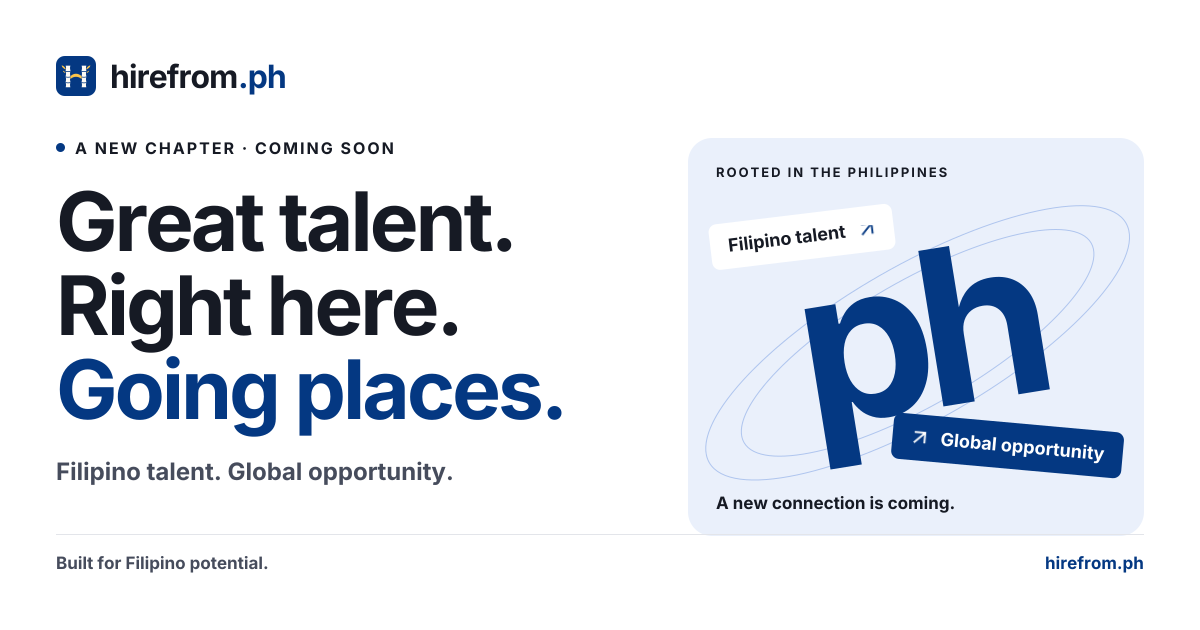
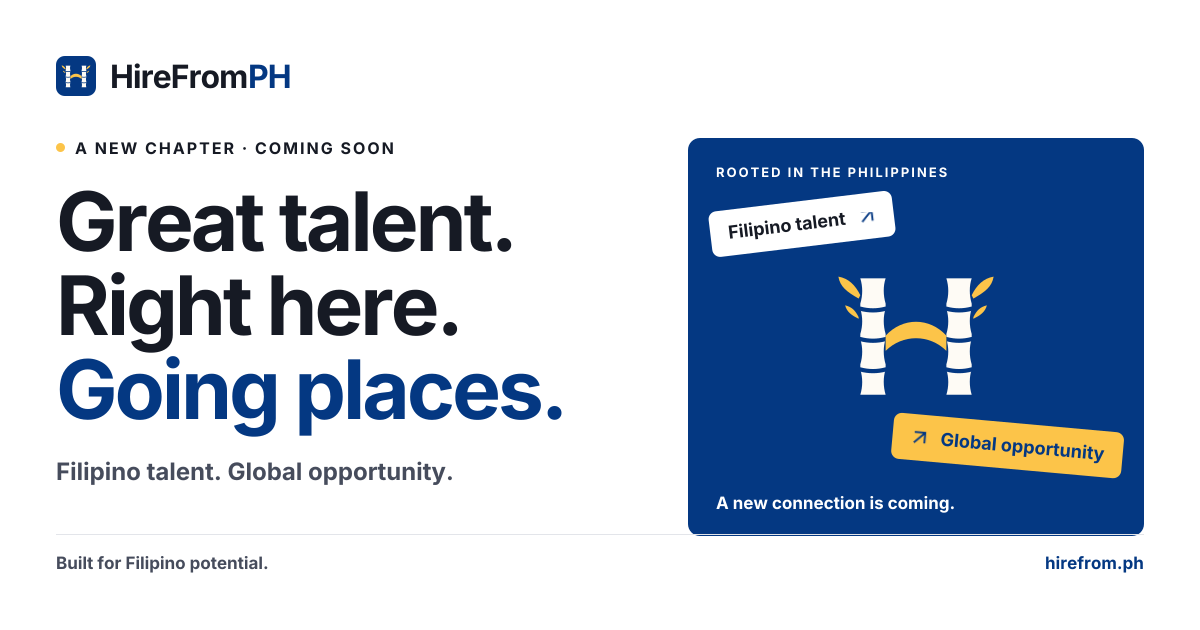
Complete coming-soon page navy and gold rebrand

Changed region(s): [[0.555, 0.2111, 0.9558, 0.8746], [0.0925, 0.0905, 0.2467, 0.1508]]

diff --git a/public/coming-soon/styles.css b/public/coming-soon/styles.css
@@ -11,6 +11,8 @@
   --ink: #161A24;
   --muted: #464C5C;
   --primary: #043882;
+  --gold: #FCC449;
+  --gold-tint: #FFF6DA;
   --tint: #EAF0FB;
   --line: #E3E5EA;
 }
@@ -22,15 +24,15 @@ a:focus-visible { outline: 3px solid var(--primary); outline-offset: 6px; }
 .skip-link:focus { top: 12px; }
 .page { max-width: 1440px; padding: 0 64px; margin: auto; }
 .header { min-height: 112px; display: flex; align-items: center; justify-content: space-between; gap: 24px; border-bottom: 1px solid var(--line); }
-.brand { display: inline-flex; align-items: center; gap: 12px; text-decoration: none; font: 800 29px Inter, Arial, sans-serif; letter-spacing: -1px; }
+.brand { display: inline-flex; align-items: center; gap: 12px; text-decoration: none; font: 700 29px Inter, Arial, sans-serif; letter-spacing: -1px; }
 .brand-domain { color: var(--primary); }
 .learn-link { display: flex; gap: 20px; align-items: center; font-size: 14px; font-weight: 700; text-decoration: none; }
 .learn-link span { font-size: 22px; color: var(--primary); }
 main:focus { outline: none; }
 .hero { display: grid; grid-template-columns: 1.15fr 1fr; gap: 72px; align-items: center; padding: 76px 0 72px; }
 .status { display: flex; align-items: center; gap: 10px; margin: 0 0 28px; font-size: 12px; font-weight: 700; letter-spacing: 1.1px; text-transform: uppercase; }
-.status > span { height: 8px; width: 8px; flex: 0 0 8px; border-radius: 50%; background: var(--primary); }
-h1 { margin: 0; font: 800 clamp(56px, 5.6vw, 82px)/1.02 Inter, Arial, sans-serif; letter-spacing: -2.8px; }
+.status > span { height: 8px; width: 8px; flex: 0 0 8px; border-radius: 50%; background: var(--gold); }
+h1 { margin: 0; font: 700 clamp(56px, 5.6vw, 82px)/1.02 Inter, Arial, sans-serif; letter-spacing: -2.8px; }
 h1 > span { color: var(--primary); }
 .description { max-width: 435px; margin: 28px 0 0; color: var(--muted); font-size: 17px; line-height: 1.7; }
 .invitation { margin: 25px 0 22px; font-size: 15px; line-height: 1.7; }
@@ -38,23 +40,20 @@ h1 > span { color: var(--primary); }
 .button:hover { background: #032A62; }
 .button span { font-size: 22px; line-height: 1; }
 .button-note { color: var(--muted); margin: 13px 0 0; font-size: 12px; }
-.connection { background: var(--tint); border-radius: 24px; overflow: hidden; align-self: stretch; display: flex; flex-direction: column; min-height: 520px; max-height: 620px; }
+.connection { background: var(--primary); color: var(--paper); border-radius: 12px; overflow: hidden; align-self: stretch; display: flex; flex-direction: column; min-height: 520px; max-height: 620px; }
 .connection-top { display: flex; align-items: center; justify-content: space-between; padding: 29px 30px; font-size: 10px; letter-spacing: 1.5px; font-weight: 700; }
-.connection-top > span:last-child { color: var(--primary); font-size: 24px; }
+.connection-top > span:last-child { color: var(--gold); font-size: 24px; }
+.connection-mark { width: min(64%, 280px); height: auto; display: block; }
 .connection-art { position: relative; flex: 1; display: grid; place-items: center; isolation: isolate; }
-.monogram { position: relative; color: var(--primary); font: 800 clamp(155px, 18vw, 248px)/1 Inter, Arial, sans-serif; letter-spacing: -18px; transform: rotate(-9deg); padding-right: 22px; }
-.spark { position: absolute; font: 65px Arial, sans-serif; right: -30px; top: 0; letter-spacing: 0; }
-.orbit { position: absolute; width: 120%; height: 45%; border: 1px solid #AFC5EE; border-radius: 50%; z-index: -1; transform: rotate(-35deg); }
-.orbit-two { transform: rotate(-35deg) scale(.82); }
 .talent-tag, .opportunity-tag { position: absolute; z-index: 1; display: flex; gap: 25px; align-items: center; padding: 14px 18px; border-radius: 8px; font-size: 13px; font-weight: 700; }
-.talent-tag { top: 8%; left: 7%; background: var(--paper); transform: rotate(-7deg); }
+.talent-tag { color: var(--ink); top: 8%; left: 7%; background: var(--paper); transform: rotate(-7deg); }
 .talent-tag span { color: var(--primary); font-size: 20px; }
-.opportunity-tag { right: 6%; bottom: 8%; background: var(--primary); color: var(--paper); transform: rotate(5deg); }
+.opportunity-tag { right: 6%; bottom: 8%; background: var(--gold); color: var(--primary); transform: rotate(5deg); }
 .opportunity-tag span { font-size: 20px; }
-.connection-bottom { border-top: 1px solid #AFC5EE; padding: 25px 30px; display: flex; align-items: center; justify-content: space-between; gap: 12px; font-size: 13px; }
-.connection-dot { width: 8px; height: 8px; background: var(--primary); border-radius: 50%; }
+.connection-bottom { border-top: 1px solid rgb(255 255 255 / 0.25); padding: 25px 30px; display: flex; align-items: center; justify-content: space-between; gap: 12px; font-size: 13px; }
+.connection-dot { width: 8px; height: 8px; background: var(--gold); border-radius: 50%; }
 .learning-note { display: flex; align-items: center; gap: 20px; border-top: 1px solid var(--line); border-bottom: 1px solid var(--line); padding: 28px 0; }
-.learning-icon { flex: 0 0 46px; height: 46px; display: grid; place-items: center; background: var(--tint); border-radius: 12px; color: var(--primary); font-size: 24px; }
+.learning-icon { flex: 0 0 46px; height: 46px; display: grid; place-items: center; background: var(--gold-tint); border-radius: 8px; color: var(--primary); font-size: 24px; }
 h2 { margin: 0 0 7px; font-size: 15px; font-weight: 700; }
 .learning-note p { margin: 0; font-size: 14px; line-height: 1.65; color: var(--muted); }
 .learning-note p a { color: var(--primary); }
@@ -72,19 +71,17 @@ footer a { text-decoration: none; }
 }
 @media (max-width: 720px) {
   .page { padding: 0 24px; }
-  .header { min-height: 88px; gap: 12px; }
-  .brand { font-size: 25px; gap: 9px; }
+  .header { min-height: 88px; gap: 12px; flex-wrap: wrap; padding: 18px 0; }
+  .brand { font-size: 22px; gap: 9px; }
   .brand img { width: 30px; height: 30px; }
   .learn-link { font-size: 12px; gap: 7px; }
   .hero { grid-template-columns: 1fr; padding: 45px 0 36px; gap: 38px; }
   .status { font-size: 10px; margin-bottom: 24px; letter-spacing: .8px; }
   h1 { font-size: clamp(52px, 10vw, 70px); letter-spacing: -2px; }
   .description { font-size: 16px; margin-top: 24px; }
-  .connection { min-height: 370px; }
-  .monogram { font-size: 185px; }
-  .spark { font-size: 50px; }
-  .talent-tag, .opportunity-tag { padding: 11px 15px; font-size: 12px; }
-  .talent-tag { top: 0; }
+  .connection { min-height: 420px; }
+      .talent-tag, .opportunity-tag { padding: 11px 15px; font-size: 12px; }
+  .talent-tag { color: var(--ink); top: 0; }
   .opportunity-tag { bottom: 0; }
   .connection-top, .connection-bottom { padding: 20px 24px; }
   .learning-note { gap: 14px; align-items: flex-start; }

diff --git a/public/coming-soon/index.html b/public/coming-soon/index.html
@@ -3,38 +3,38 @@
   <head>
     <meta charset="utf-8">
     <meta name="viewport" content="width=device-width, initial-scale=1">
-    <title>Hire From PH — A new connection is coming.</title>
-    <meta name="description" content="A new home for Filipino talent and the teams who need it. Hire From PH's hiring platform is coming soon. Explore our free learning resources while we build.">
+    <title>HireFromPH — A new connection is coming.</title>
+    <meta name="description" content="A new home for Filipino talent and the teams who need it. HireFromPH's hiring platform is coming soon. Explore our free learning resources while we build.">
     <meta name="theme-color" content="#043882">
     <meta name="robots" content="index, follow">
     <link rel="canonical" href="https://hirefrom.ph/">
     <meta property="og:type" content="website">
-    <meta property="og:site_name" content="Hire From PH">
+    <meta property="og:site_name" content="HireFromPH">
     <meta property="og:url" content="https://hirefrom.ph/">
-    <meta property="og:title" content="Hire From PH — A new connection is coming.">
+    <meta property="og:title" content="HireFromPH — A new connection is coming.">
     <meta property="og:description" content="Filipino talent. Global opportunity. Our new hiring platform is coming soon.">
     <meta property="og:locale" content="en_PH">
-    <meta property="og:image" content="https://hirefrom.ph/coming-soon/og-image.png">
+    <meta property="og:image" content="https://hirefrom.ph/coming-soon/og-image.png?v=navy-gold-2">
     <meta property="og:image:type" content="image/png">
     <meta property="og:image:width" content="1200">
     <meta property="og:image:height" content="630">
-    <meta property="og:image:alt" content="Hire From PH — Great talent. Right here. Going places. Coming soon.">
+    <meta property="og:image:alt" content="HireFromPH — Great talent. Right here. Going places. Coming soon.">
     <meta name="twitter:card" content="summary_large_image">
-    <meta name="twitter:title" content="Hire From PH — A new connection is coming.">
+    <meta name="twitter:title" content="HireFromPH — A new connection is coming.">
     <meta name="twitter:description" content="Filipino talent. Global opportunity. Our new hiring platform is coming soon.">
-    <meta name="twitter:image" content="https://hirefrom.ph/coming-soon/og-image.png">
-    <meta name="twitter:image:alt" content="Hire From PH — Great talent. Right here. Going places. Coming soon.">
-    <link rel="icon" href="/icon.svg" type="image/svg+xml">
+    <meta name="twitter:image" content="https://hirefrom.ph/coming-soon/og-image.png?v=navy-gold-2">
+    <meta name="twitter:image:alt" content="HireFromPH — Great talent. Right here. Going places. Coming soon.">
+    <link rel="icon" href="/coming-soon/mark.svg?v=navy-gold-2" type="image/svg+xml">
     <link rel="preload" href="/coming-soon/Inter-Bold.woff" as="font" type="font/woff" crossorigin>
-    <link rel="stylesheet" href="/coming-soon/styles.css">
+    <link rel="stylesheet" href="/coming-soon/styles.css?v=navy-gold-2">
   </head>
   <body>
     <a class="skip-link" href="#main">Skip to content</a>
     <div class="page">
       <header class="header">
-        <a class="brand" href="/" aria-label="Hire From PH home">
-          <img src="/icon.svg" width="36" height="36" alt="">
-          <span>hirefrom<span class="brand-domain">.ph</span></span>
+        <a class="brand" href="/" aria-label="HireFromPH home">
+          <img src="/coming-soon/mark.svg?v=navy-gold-2" width="36" height="36" alt="">
+          <span>HireFrom<span class="brand-domain">PH</span></span>
         </a>
         <a class="learn-link" href="https://learn.hirefrom.ph/">Explore Learn <span aria-hidden="true">↗</span></a>
       </header>
@@ -44,7 +44,7 @@
           <div class="intro">
             <p class="status"><span aria-hidden="true"></span> A new chapter · Coming soon</p>
             <h1 id="headline">Great talent.<br>Right here.<br><span>Going places.</span></h1>
-            <p class="description">A new home for Filipino talent and the teams who need it. We’re building the next chapter of Hire From PH, where skills meet opportunity.</p>
+            <p class="description">A new home for Filipino talent and the teams who need it. We’re building the next chapter of HireFromPH, where skills meet opportunity.</p>
             <p class="invitation">The hiring platform is on its way.<br>Your next step can start today.</p>
             <a class="button" href="https://learn.hirefrom.ph/">Keep growing with Learn <span aria-hidden="true">↗</span></a>
             <p class="button-note">Free resources. Open to everyone.</p>
@@ -53,9 +53,8 @@
           <div class="connection" aria-label="Connecting Filipino talent with global opportunity">
             <div class="connection-top"><span>ROOTED IN THE PHILIPPINES</span><span aria-hidden="true">↗</span></div>
             <div class="connection-art" aria-hidden="true">
-              <div class="orbit orbit-one"></div><div class="orbit orbit-two"></div>
               <div class="talent-tag">Filipino talent <span>↗</span></div>
-              <div class="monogram">ph<span class="spark">✳</span></div>
+              <img class="connection-mark" src="/coming-soon/mark.svg?v=navy-gold-2" width="256" height="256" alt="">
               <div class="opportunity-tag"><span>↗</span> Global opportunity</div>
             </div>
             <div class="connection-bottom"><span>A new connection is coming.</span><span class="connection-dot" aria-hidden="true"></span></div>
@@ -69,7 +68,7 @@
         </aside>
       </main>
 
-      <footer><span>Hire From PH</span><span>Built for Filipino potential.</span><a href="https://learn.hirefrom.ph/">Keep learning <span aria-hidden="true">↗</span></a></footer>
+      <footer><span>HireFromPH</span><span>Built for Filipino potential.</span><a href="https://learn.hirefrom.ph/">Keep learning <span aria-hidden="true">↗</span></a></footer>
     </div>
   </body>
 </html>
